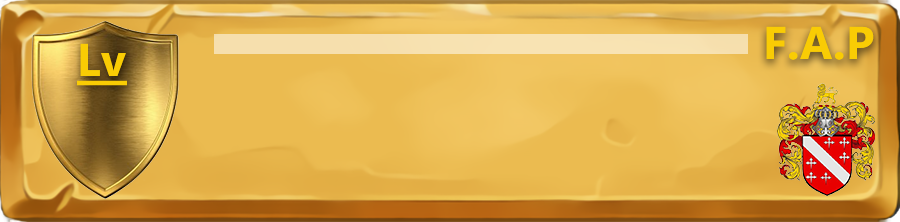
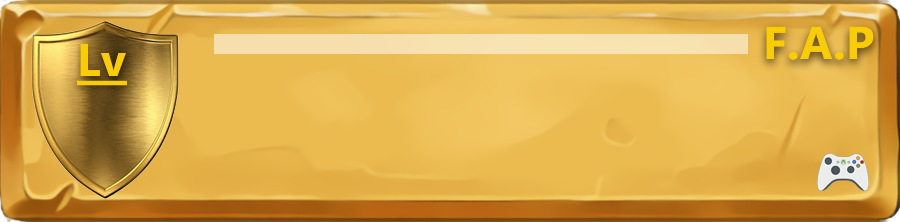
optimizations, typo fixes (im an idiot when im tired), migration away from the prestige system cause I dont like it, gamer level is now displayed on level up image (will probably make the gamer xp level up similar to server xp)

Changed region(s): [[0.84, 0.3784, 0.9956, 0.8919]]

diff --git a/src/main/java/com/divisionind/fdb/LevelSystem.java b/src/main/java/com/divisionind/fdb/LevelSystem.java
@@ -50,23 +50,22 @@ public class LevelSystem implements Runnable {
             ByteArrayOutputStream bao = new ByteArrayOutputStream();
             try {
                 Connection conn = DB.getConnection();
-                PreparedStatement ps = conn.prepareStatement("SELECT discord_id,game_xp,server_xp FROM leveldata WHERE discord_id=?");
+                PreparedStatement ps = conn.prepareStatement("SELECT * FROM leveldata WHERE discord_id=?");
                 ResultSet rs = ps.executeQuery();
-                if (rs.next()) {
-
-                } else throw new SQLException("Did not find user by provided discord id.");
+                if (!rs.next()) throw new SQLException("Did not find user by provided discord id.");
                 long game_xp = rs.getLong("game_xp");
                 long server_xp = rs.getLong("server_xp");
+                int gamer_level = (int)rs.getShort("gamer_level");
                 rs.close();
                 ps.close();
                 conn.close();
                 if (level_type == Level.SERVER) {
-                    ImageIO.write(prepareImage(member, trigger_level, game_xp, server_xp), "png", bao);
+                    ImageIO.write(prepareImage(member, trigger_level, gamer_level, game_xp, server_xp), "png", bao);
                 } else {
-                    ImageIO.write(prepareImage(member, (int)level, game_xp, server_xp), "png", bao);
+                    ImageIO.write(prepareImage(member, (int)level, gamer_level, game_xp, server_xp), "png", bao);
                 }
             } catch (IOException | SQLException | FontFormatException e) {
-                System.err.println("Could not render image to user " + member.getEffectiveName() + "'s level up message.");
+                System.err.println("Could not render image for user " + member.getEffectiveName() + "'s level up message.");
                 e.printStackTrace();
                 return;
             }
@@ -252,7 +251,7 @@ public class LevelSystem implements Runnable {
         });
     }
 
-    public BufferedImage prepareImage(Member member, int level, long gamer_xp, long server_xp) throws IOException, FontFormatException {
+    public BufferedImage prepareImage(Member member, int level, int gamerlevel, long gamer_xp, long server_xp) throws IOException, FontFormatException {
         BufferedImage img = ImageIO.read(getClass().getResource("/com/divisionind/fdb/assets/level-up-template.png"));
         Graphics g = img.getGraphics();
         Graphics2D g2d = (Graphics2D)g;
@@ -261,15 +260,13 @@ public class LevelSystem implements Runnable {
 
         // server_xp bar
         g2d.setColor(new Color(0, 118, 177));
-        BigDecimal bd = new BigDecimal(server_xp).divide(new BigDecimal(960), 2, RoundingMode.HALF_UP).multiply(new BigDecimal(MAX_XP_BAR_LENGTH));
+        BigDecimal bd = new BigDecimal(server_xp).divide(new BigDecimal(96000), 2, RoundingMode.HALF_UP).multiply(new BigDecimal(MAX_XP_BAR_LENGTH));
         g2d.fillRect(214, 34, bd.intValue(), 10);
 
         // gamer_xp bar
         g2d.setColor(new Color(34, 227, 0));
         bd = new BigDecimal(gamer_xp).divide(new BigDecimal(96000), 2, RoundingMode.HALF_UP).multiply(new BigDecimal(MAX_XP_BAR_LENGTH));
-        int bdint = bd.intValue();
-        if (bdint > MAX_XP_BAR_LENGTH) bdint = MAX_XP_BAR_LENGTH;
-        g2d.fillRect(214, 44, bdint, 10);
+        g2d.fillRect(214, 44, bd.intValue(), 10);
 
         // users name
         g2d.setColor(Color.WHITE);
@@ -277,20 +274,17 @@ public class LevelSystem implements Runnable {
         g2d.setFont(font.deriveFont(70F));
         g2d.drawString(member.getEffectiveName(), 214, 150);
 
-        // level
+        // server level
         g2d.setColor(new Color(249, 204, 4));
         g2d.setFont(font.deriveFont(60F));
         String slevel = Integer.toString(level);
+        g2d.drawString(slevel, 102 - g2d.getFontMetrics().stringWidth(slevel) / 2, 140);
 
-        // im too lazy to calculate the width of the string and center it right now. maybe later
-        if (level == 100) {
-            g2d.drawString(slevel, 55, 140);
-        } else
-        if (level < 100 && level > 9) {
-            g2d.drawString(slevel, 67, 140);
-        } else {
-            g2d.drawString(slevel, 85, 140);
-        }
+        // gamer level
+        g2d.setColor(new Color(0, 119, 73));
+        g2d.setFont(font.deriveFont(45F));
+        String glevel = Integer.toString(gamerlevel);
+        g2d.drawString(glevel, 812 - g2d.getFontMetrics().stringWidth(glevel), 187);
 
         return img;
     }

diff --git a/src/main/java/com/divisionind/fdb/Commands.java b/src/main/java/com/divisionind/fdb/Commands.java
@@ -465,7 +465,7 @@ public class Commands {
                     conn.close();
 
                     ByteArrayOutputStream bao = new ByteArrayOutputStream();
-                    ImageIO.write(FapBot.getLevelSystem().prepareImage(member, server_level, game_xp, server_xp), "png", bao);
+                    ImageIO.write(FapBot.getLevelSystem().prepareImage(member, server_level, gamer_level, game_xp, server_xp), "png", bao);
                     event.getChannel().sendFile(bao.toByteArray(), "faplevel.png", new MessageBuilder(
                             String.format("**Server Level: ** %s\n**Server Xp:** %s / 960\n**Gamer Level:** %s\n**Gamer Xp:** %s / 96,000\n**Prestige:** %s",
                                     server_level, server_xp, gamer_level, NumberFormat.getNumberInstance().format(game_xp), prestige
